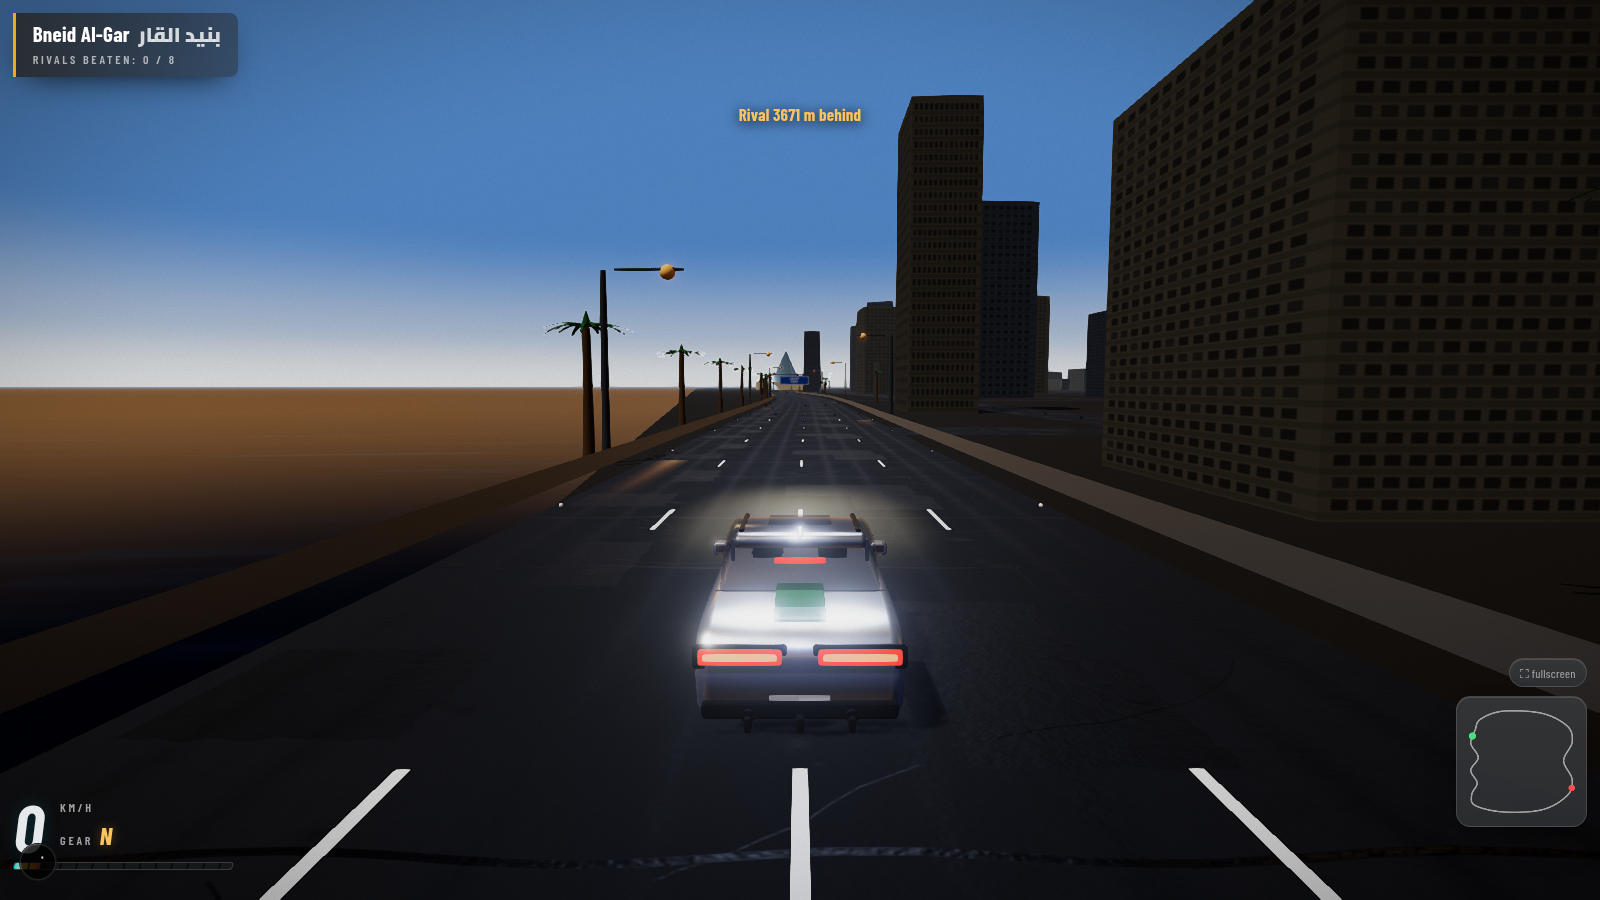
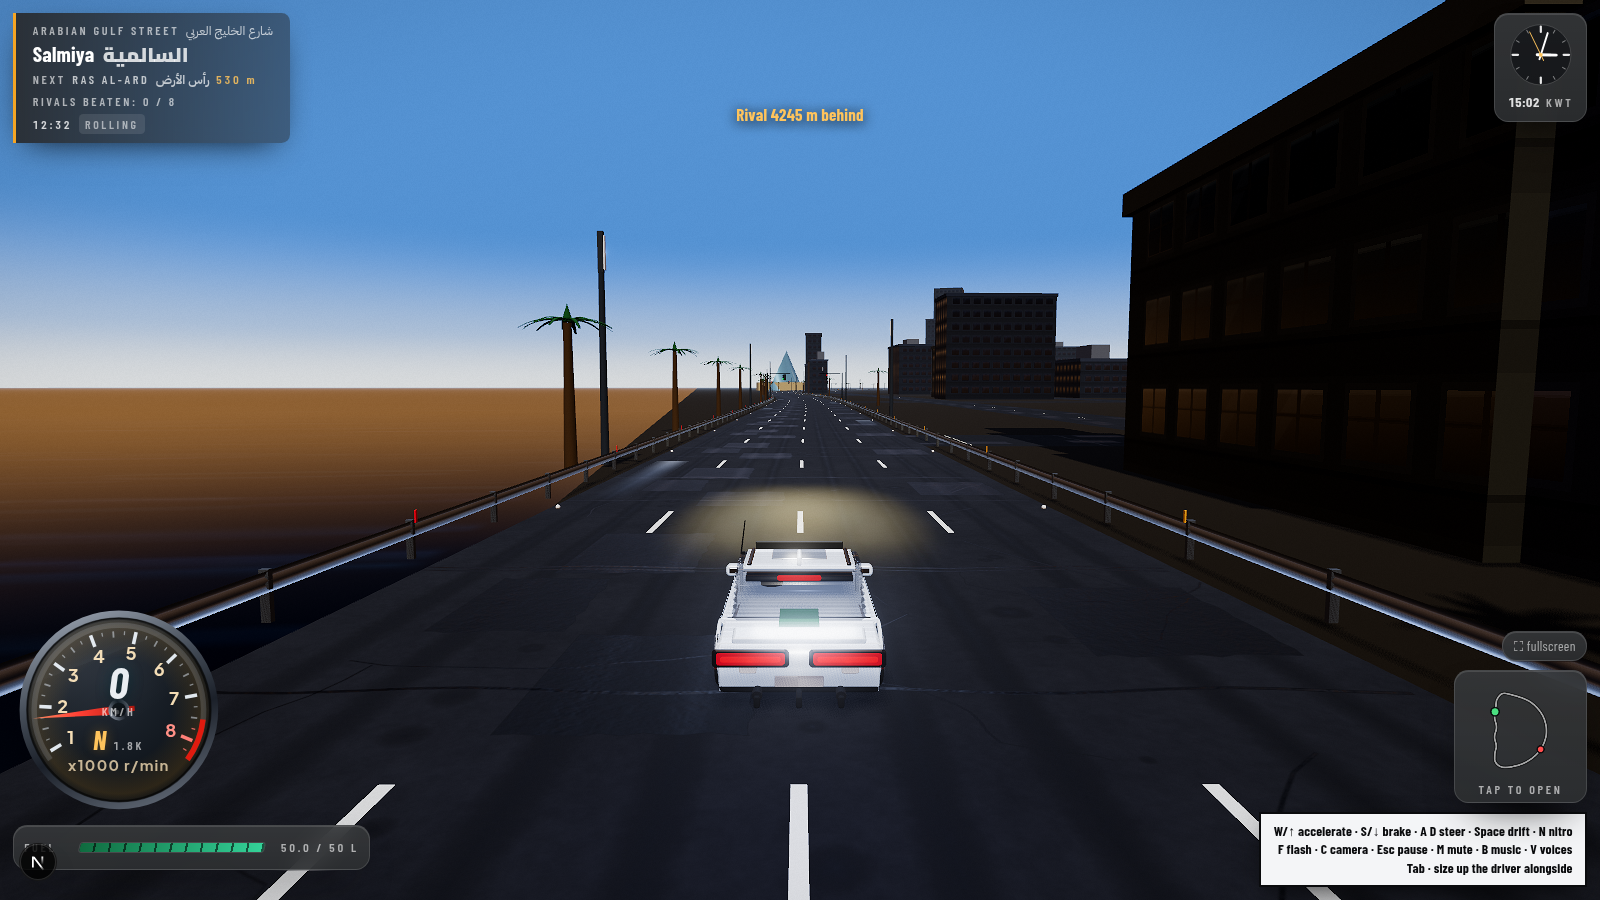
Give the day an afternoon
The cycle had three keyframes — night, twilight, noon — and the daylight
weight is clamp(sunAlt * 3.2), which saturates at a sun altitude of 0.31.
The clock reaches that at ten to eight in the morning and does not leave
it until ten past four. For eight and a half hours every palette in
setTimeOfDay was pinned to the same values and the key light sat at the
same 54 degrees: half past eight, noon and half past three were one
picture with the sun pointing a different way, and the hours after that
went straight from noon to dusk with nothing in between.

tests/daynight.mjs sampled hour 8 and hour 12.5, printed identical rows
for both, and nobody read them. It sampled nothing at all between half
past twelve and quarter past six.

So daylight gets a fourth keyframe: a golden band that takes its share
out of the day weight, rides the sun's altitude rather than the hour —
which means the morning gets it too, and mornings are golden — and
leaves noon exactly as it was. The sky's zenith deepens and loses a
little green, the horizon goes to warm haze instead of midday pale, the
fog thickens the way air does after a day of heat, the key warms and
comes down, and the sun's own disc and halo grow.

Two things fell out of giving the sun a real arc, and both were the
change finding existing bugs rather than making them.

The fill light had an absolute floor of 120 on its height. With the key
pinned at 54 degrees that was always well underneath it; with the key
[…]

diff --git a/src/game/world.ts b/src/game/world.ts
@@ -2776,6 +2776,9 @@ const TUNNEL_U = { from: TUNNEL_S.from / LAP_LENGTH, to: TUNNEL_S.to / LAP_LENGT
 // the key still does the modelling.
 const KEY_NIGHT = 1.15;
 const KEY_TWILIGHT = 1.5;
+/** Mid-afternoon: still full daylight, but off a sun that has come down
+ *  far enough to rake. */
+const KEY_GOLD = 2.75;
 const KEY_DAY = 3.1;
 const FILL_RATIO = 0.3;
 
@@ -2800,6 +2803,31 @@ const FILL_RATIO = 0.3;
 // a hot road read as noon and nothing else.
 const KEY_ELEV_NIGHT = 26;
 const KEY_ELEV_TWILIGHT = 12;
+/**
+ * And the afternoon, which the day used to have no room for.
+ *
+ * `day` saturates at a sun altitude of 0.31, which the clock reaches at
+ * ten to eight in the morning and does not leave until ten past four —
+ * so for eight and a half hours every palette in here was pinned to the
+ * same values and the key light sat at the same 54 degrees. Half past
+ * eight, noon and half past three were the same picture with the sun
+ * pointing a different way. The test that covers this cycle sampled
+ * hour 8 and hour 12.5 and printed the same sky for both without
+ * anybody noticing, and sampled nothing at all between half past twelve
+ * and quarter past six.
+ *
+ * A low sun is the thing daylight actually varies by: long shadows down
+ * the road, a warm key, and the haze the Gulf carries all year standing
+ * up in the horizon band.
+ *
+ * 22 rather than the 14 this was first written at, and the reason is
+ * the keyframe below it. Twilight sits at 12, so an afternoon at 14 is
+ * only two degrees above dusk — and blended, the two came out level: the
+ * key measured the same height at ten past five as at ten past six, and
+ * the sun stopped falling for the last hour of the day. An afternoon has
+ * to be as far above dusk as it is below noon.
+ */
+const KEY_ELEV_GOLD = 22;
 const KEY_ELEV_DAY = 54;
 /** How far out the key sits, horizontally, from what it is lighting. */
 const KEY_RADIUS = 520;
@@ -5319,15 +5347,21 @@ export function buildWorld(scene: THREE.Scene, track: Track): WorldHandle {
 
       // Blend weights. Twilight is the narrow band around the horizon,
       // and it is what makes a cycle worth having.
-      const day = THREE.MathUtils.clamp(sunAlt * 3.2, 0, 1);
+      const lit = THREE.MathUtils.clamp(sunAlt * 3.2, 0, 1);
       const night = THREE.MathUtils.clamp(-sunAlt * 3.2, 0, 1);
-      const twilight = 1 - day - night;
+      const twilight = 1 - lit - night;
+      // The golden band takes its share OUT of the daylight weight, so
+      // the four still sum to one and noon is left exactly as it was.
+      // It rides the sun's altitude rather than the hour, which means
+      // the morning gets it too — and mornings are golden.
+      const gold = lit * THREE.MathUtils.clamp((0.88 - sunAlt) / 0.7, 0, 1);
+      const day = lit - gold;
 
-      const mix3 = (n: number[], t: number[], d: number[]) =>
+      const mix4 = (n: number[], t: number[], g: number[], d: number[]) =>
         new THREE.Color(
-          n[0] * night + t[0] * twilight + d[0] * day,
-          n[1] * night + t[1] * twilight + d[1] * day,
-          n[2] * night + t[2] * twilight + d[2] * day
+          n[0] * night + t[0] * twilight + g[0] * gold + d[0] * day,
+          n[1] * night + t[1] * twilight + g[1] * gold + d[1] * day,
+          n[2] * night + t[2] * twilight + g[2] * gold + d[2] * day
         );
 
       // Sky gradient: deep bay blue → sunrise ember → daylight blue
@@ -5348,22 +5382,47 @@ export function buildWorld(scene: THREE.Scene, track: Track): WorldHandle {
         // runs backwards, and what still clips is the sun's own corner of
         // the sky. Noted in the levels tool's output instead.
         (u.uTop.value as THREE.Color).copy(
-          mix3([0.016, 0.028, 0.104], [0.030, 0.048, 0.105], [0.16, 0.34, 0.72])
+          mix4(
+            [0.016, 0.028, 0.104],
+            [0.030, 0.048, 0.105],
+            // The zenith deepens as the sun drops — the blue goes richer
+            // and loses a little of its green, which is the whole reason
+            // an afternoon sky photographs better than a noon one.
+            [0.13, 0.26, 0.60],
+            [0.16, 0.34, 0.72]
+          )
         );
         (u.uHorizon.value as THREE.Color).copy(
-          mix3([0.05, 0.066, 0.125], [0.42, 0.24, 0.16], [0.62, 0.74, 0.92])
+          mix4(
+            [0.05, 0.066, 0.125],
+            [0.42, 0.24, 0.16],
+            // And the horizon band goes to warm haze rather than the pale
+            // blue of midday. This is the band the city sits in.
+            [0.80, 0.70, 0.55],
+            [0.62, 0.74, 0.92]
+          )
         );
         (u.uGlow.value as THREE.Color).copy(
-          mix3([0.085, 0.046, 0.01], [0.55, 0.21, 0.07], [0.36, 0.30, 0.16])
+          mix4([0.085, 0.046, 0.01], [0.55, 0.21, 0.07], [0.58, 0.35, 0.13], [0.36, 0.30, 0.16])
         );
-        u.uGlowHeight.value = 0.16 * night + 0.34 * twilight + 0.22 * day;
+        u.uGlowHeight.value = 0.16 * night + 0.34 * twilight + 0.3 * gold + 0.22 * day;
       }
 
       // Fog is the floor the scene fades to, so it has to move with the
       // sky or the horizon tears away from the world in front of it.
       const fog = scene.fog as THREE.FogExp2;
-      fog.color.copy(mix3([0.008, 0.012, 0.043], [0.098, 0.102, 0.172], [0.62, 0.71, 0.85]));
-      fog.density = 0.0009 * night + 0.00075 * twilight + 0.00045 * day;
+      fog.color.copy(
+        mix4(
+          [0.008, 0.012, 0.043],
+          [0.098, 0.102, 0.172],
+          [0.70, 0.62, 0.52],
+          [0.62, 0.71, 0.85]
+        )
+      );
+      // Thicker in the afternoon than at noon: the heat has been in the
+      // air all day by then and the far end of the corniche softens.
+      fog.density =
+        0.0009 * night + 0.00075 * twilight + 0.00058 * gold + 0.00045 * day;
 
       // The key light. It is the moon at night and the sun by day, so it
       // travels: low and raking in the dark, high and white at noon.
@@ -5374,7 +5433,10 @@ export function buildWorld(scene: THREE.Scene, track: Track): WorldHandle {
       // at the same 56 degrees at midnight as at noon and cost the game
       // every shadow it thought it was casting.
       const elevDeg =
-        KEY_ELEV_NIGHT * night + KEY_ELEV_TWILIGHT * twilight + KEY_ELEV_DAY * day;
+        KEY_ELEV_NIGHT * night +
+        KEY_ELEV_TWILIGHT * twilight +
+        KEY_ELEV_GOLD * gold +
+        KEY_ELEV_DAY * day;
       moonLight.position.set(
         Math.cos(az) * KEY_RADIUS,
         KEY_RADIUS * Math.tan(THREE.MathUtils.degToRad(elevDeg)),
@@ -5389,9 +5451,10 @@ export function buildWorld(scene: THREE.Scene, track: Track): WorldHandle {
       // it at all.
       moonLight.userData.keyDir = moonLight.position.clone().normalize();
       moonLight.color.copy(
-        mix3([0.75, 0.82, 1.0], [1.0, 0.78, 0.55], [1.0, 0.96, 0.88])
+        mix4([0.75, 0.82, 1.0], [1.0, 0.78, 0.55], [1.0, 0.87, 0.70], [1.0, 0.96, 0.88])
       );
-      const key = KEY_NIGHT * night + KEY_TWILIGHT * twilight + KEY_DAY * day;
+      const key =
+        KEY_NIGHT * night + KEY_TWILIGHT * twilight + KEY_GOLD * gold + KEY_DAY * day;
       moonLight.intensity = key;
 
       // The fill answers the key from the other side, tracking it so the
@@ -5401,11 +5464,16 @@ export function buildWorld(scene: THREE.Scene, track: Track): WorldHandle {
       // scene from going flat.
       fillLight.position.set(
         -moonLight.position.x * 0.62,
-        Math.max(120, moonLight.position.y * 0.42),
+        // Never above the key. The floor is there so the fill does not
+        // sink to ground level when the key is high, but the key rides a
+        // real arc now and comes down past it: at half past six in the
+        // morning the sun sat at 118 and the fill's floor of 120 put the
+        // shadow-side light ABOVE the thing casting the shadows.
+        Math.min(moonLight.position.y * 0.9, Math.max(120, moonLight.position.y * 0.42)),
         -moonLight.position.z * 0.62
       );
       fillLight.color.copy(
-        mix3([0.42, 0.55, 0.82], [0.5, 0.6, 0.86], [0.62, 0.72, 0.95])
+        mix4([0.42, 0.55, 0.82], [0.5, 0.6, 0.86], [0.55, 0.66, 0.92], [0.62, 0.72, 0.95])
       );
       fillLight.intensity = key * FILL_RATIO;
 
@@ -5413,8 +5481,12 @@ export function buildWorld(scene: THREE.Scene, track: Track): WorldHandle {
       // doing the shadow-side lifting, the hemisphere only has to keep
       // the very darkest crevices off absolute black.
       if (hemiRef) {
-        hemiRef.color.copy(mix3([0.17, 0.22, 0.33], [0.35, 0.42, 0.59], [0.55, 0.68, 0.92]));
-        hemiRef.groundColor.copy(mix3([0.07, 0.055, 0.03], [0.17, 0.13, 0.09], [0.42, 0.36, 0.28]));
+        hemiRef.color.copy(
+          mix4([0.17, 0.22, 0.33], [0.35, 0.42, 0.59], [0.52, 0.6, 0.8], [0.55, 0.68, 0.92])
+        );
+        hemiRef.groundColor.copy(
+          mix4([0.07, 0.055, 0.03], [0.17, 0.13, 0.09], [0.46, 0.36, 0.24], [0.42, 0.36, 0.28])
+        );
         // Night ambient, up from 0.2 and then from 0.3.
         //
         // The comment here used to claim this was "the only thing
@@ -5433,7 +5505,7 @@ export function buildWorld(scene: THREE.Scene, track: Track): WorldHandle {
         // fills its own shadows is a night that has stopped reading as
         // one. The rest of the fix is in the lamp pools, which is where
         // road light actually comes from.
-        hemiRef.intensity = 0.55 * night + 0.45 * twilight + 0.5 * day;
+        hemiRef.intensity = 0.55 * night + 0.45 * twilight + 0.5 * gold + 0.5 * day;
       }
 
       // Office windows: full after dark, fading through twilight, out by
@@ -5459,17 +5531,21 @@ export function buildWorld(scene: THREE.Scene, track: Track): WorldHandle {
         bodyDisc.scale.setScalar(sunUp ? 0.55 : 1);
         moonDiscMat.color.setRGB(
           1,
-          0.95 * night + 0.88 * twilight + 0.97 * day,
-          0.83 * night + 0.62 * twilight + 0.86 * day
+          0.95 * night + 0.88 * twilight + 0.9 * gold + 0.97 * day,
+          0.83 * night + 0.62 * twilight + 0.7 * gold + 0.86 * day
         );
-        moonDiscMat.opacity = 0.35 + 0.65 * Math.max(night, day);
-        bodyHalo.scale.setScalar(520 * (1 + day * 0.5 + twilight * 0.35));
-        moonHaloMat.opacity = 0.5 * night + 0.75 * twilight + 0.6 * day;
+        // `lit`, not `day`: the golden band is daylight with a share
+        // taken out of it, and anything that means "is the sun up" has to
+        // ask for the whole of it or the sun fades out of its own
+        // afternoon.
+        moonDiscMat.opacity = 0.35 + 0.65 * Math.max(night, lit);
+        bodyHalo.scale.setScalar(520 * (1 + day * 0.5 + gold * 0.75 + twilight * 0.35));
+        moonHaloMat.opacity = 0.5 * night + 0.75 * twilight + 0.7 * gold + 0.6 * day;
       }
 
       // Streetlights are on a photocell, not a clock: they come on as
       // the light goes, hold through the night, and drop out at dawn.
-      lampLevel = THREE.MathUtils.clamp(1 - day * 1.25, 0, 1);
+      lampLevel = THREE.MathUtils.clamp(1 - lit * 1.25, 0, 1);
       if (lampPoolMat) lampPoolMat.opacity = 0.42 * lampLevel;
       // The visible shafts die with the lamps: a beam of light in
       // daylight air is a projector effect, not a streetscape.
